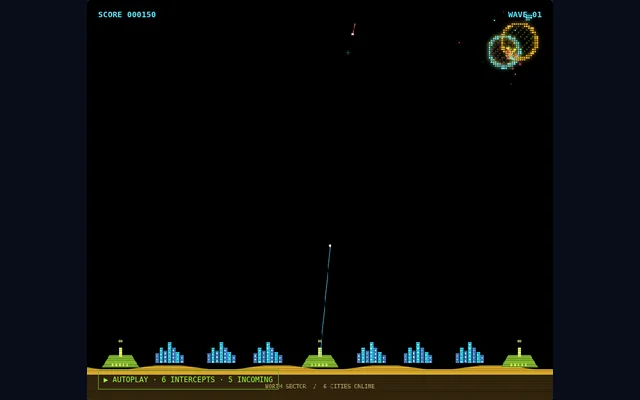
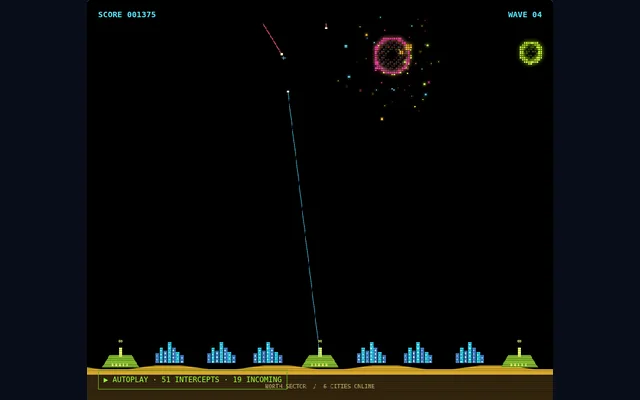
Refresh four toy previews after longer gameplay warm-ups

diff --git a/docs/toy-card-media.md b/docs/toy-card-media.md
@@ -2,7 +2,7 @@
 
 The catalog uses a 640 × 400 WebP preview and a 32 × 32 SVG icon for each stable application key. Keep the existing toy_defender identity for Abduction so grants and URLs remain valid.
 
-Previews were captured from actual running toys in dwiest/wiest-desktop-toys on November 18, 2026, using Chromium at a 1100 × 800 viewport after about ten seconds of playback. Capture the canvas (the stage for the layered Spinning Sticks canvases), preserve its aspect ratio, and pad to 640 × 400 with #080d18. Fireworks uses the Festival preset and a launched volley. Convert to WebP at quality 84. The 13 previews total about 156 KB.
+Previews were captured from actual running toys in dwiest/wiest-desktop-toys on November 18, 2026, using Chromium at a 1100 × 800 viewport after an initial warm-up. Abduction uses a frame at 120 seconds, Missile Command at 90 seconds, and Ms. Pac-Man and Pixel Fireworks at 45 seconds; these replace their early captures. The remaining toys use about ten seconds of playback. Capture the canvas (the stage for the layered Spinning Sticks canvases), preserve its aspect ratio, and pad to 640 × 400 with #080d18. Fireworks uses the Festival preset with 18 launches per minute and three shells per launch. Convert to WebP at quality 84. 
 
 Existing header marks are reused for Spinning Sticks, Tidal, Plinko, Pixel Fireworks, and Abduction. Arcade icons use their gameplay bitmap sprites where available; Ms. Pac-Man and Missile Command have matching vector symbols.
 
